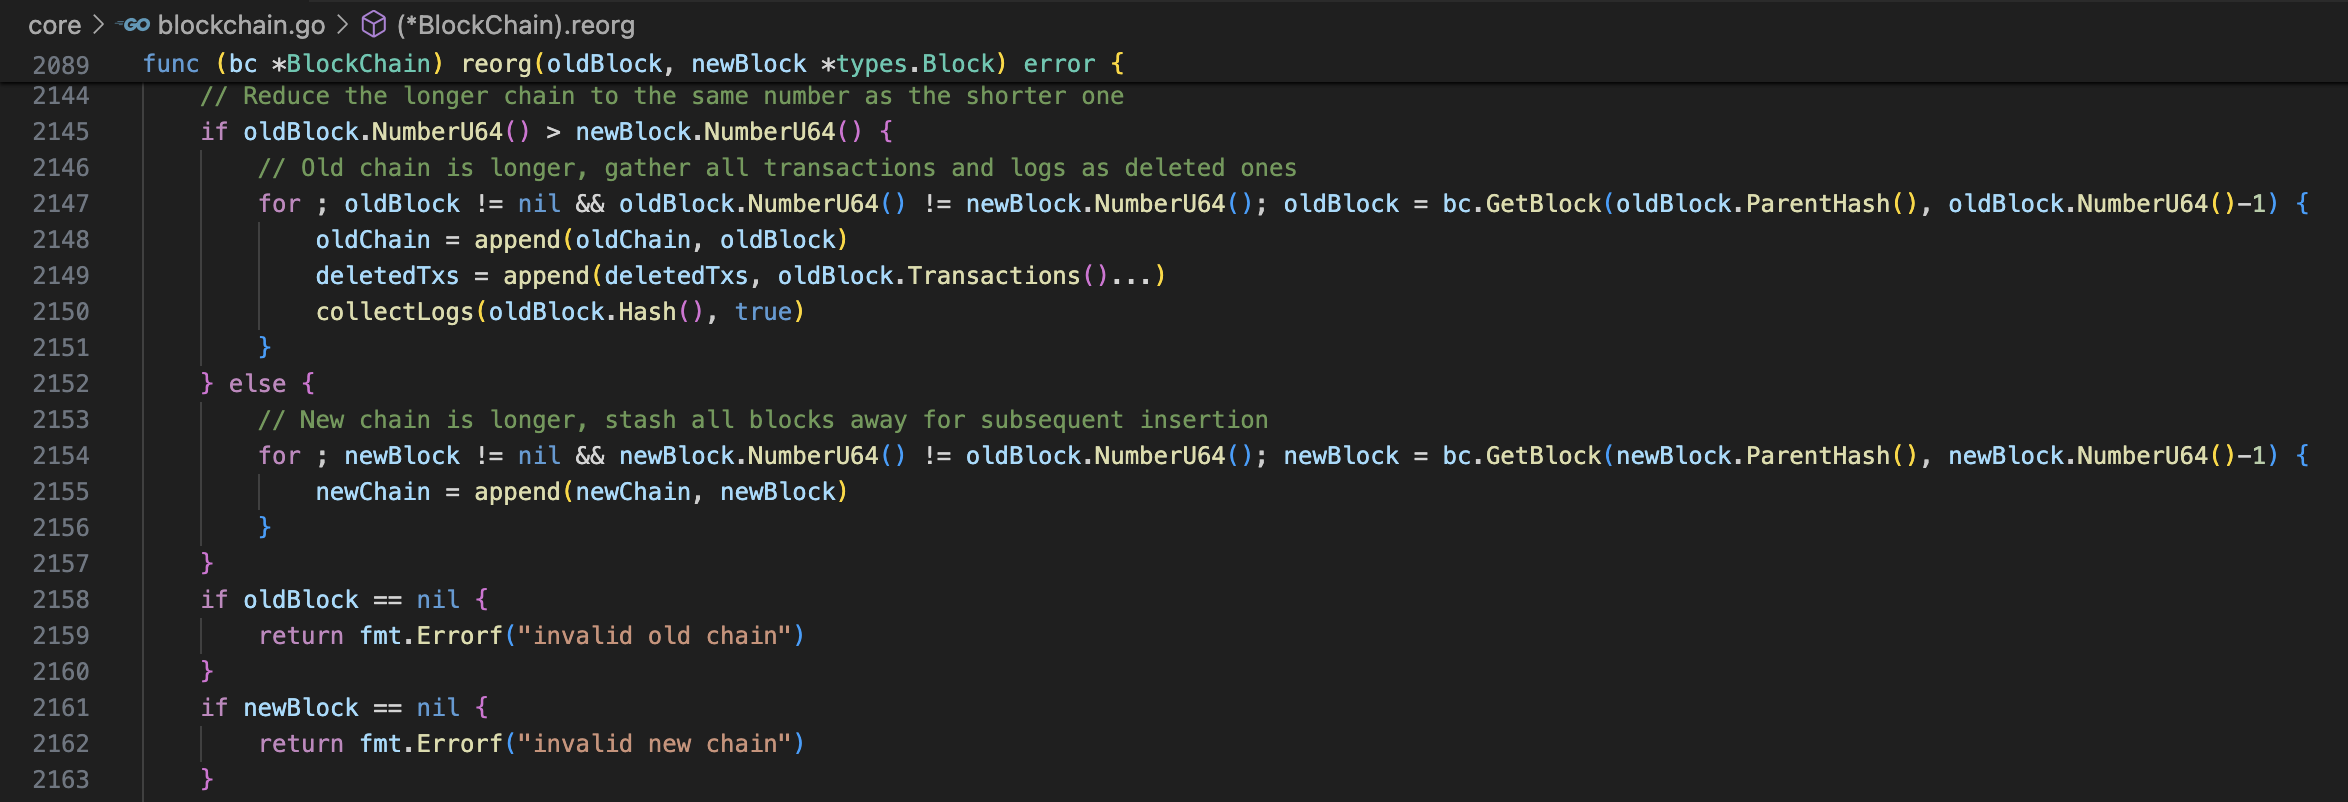
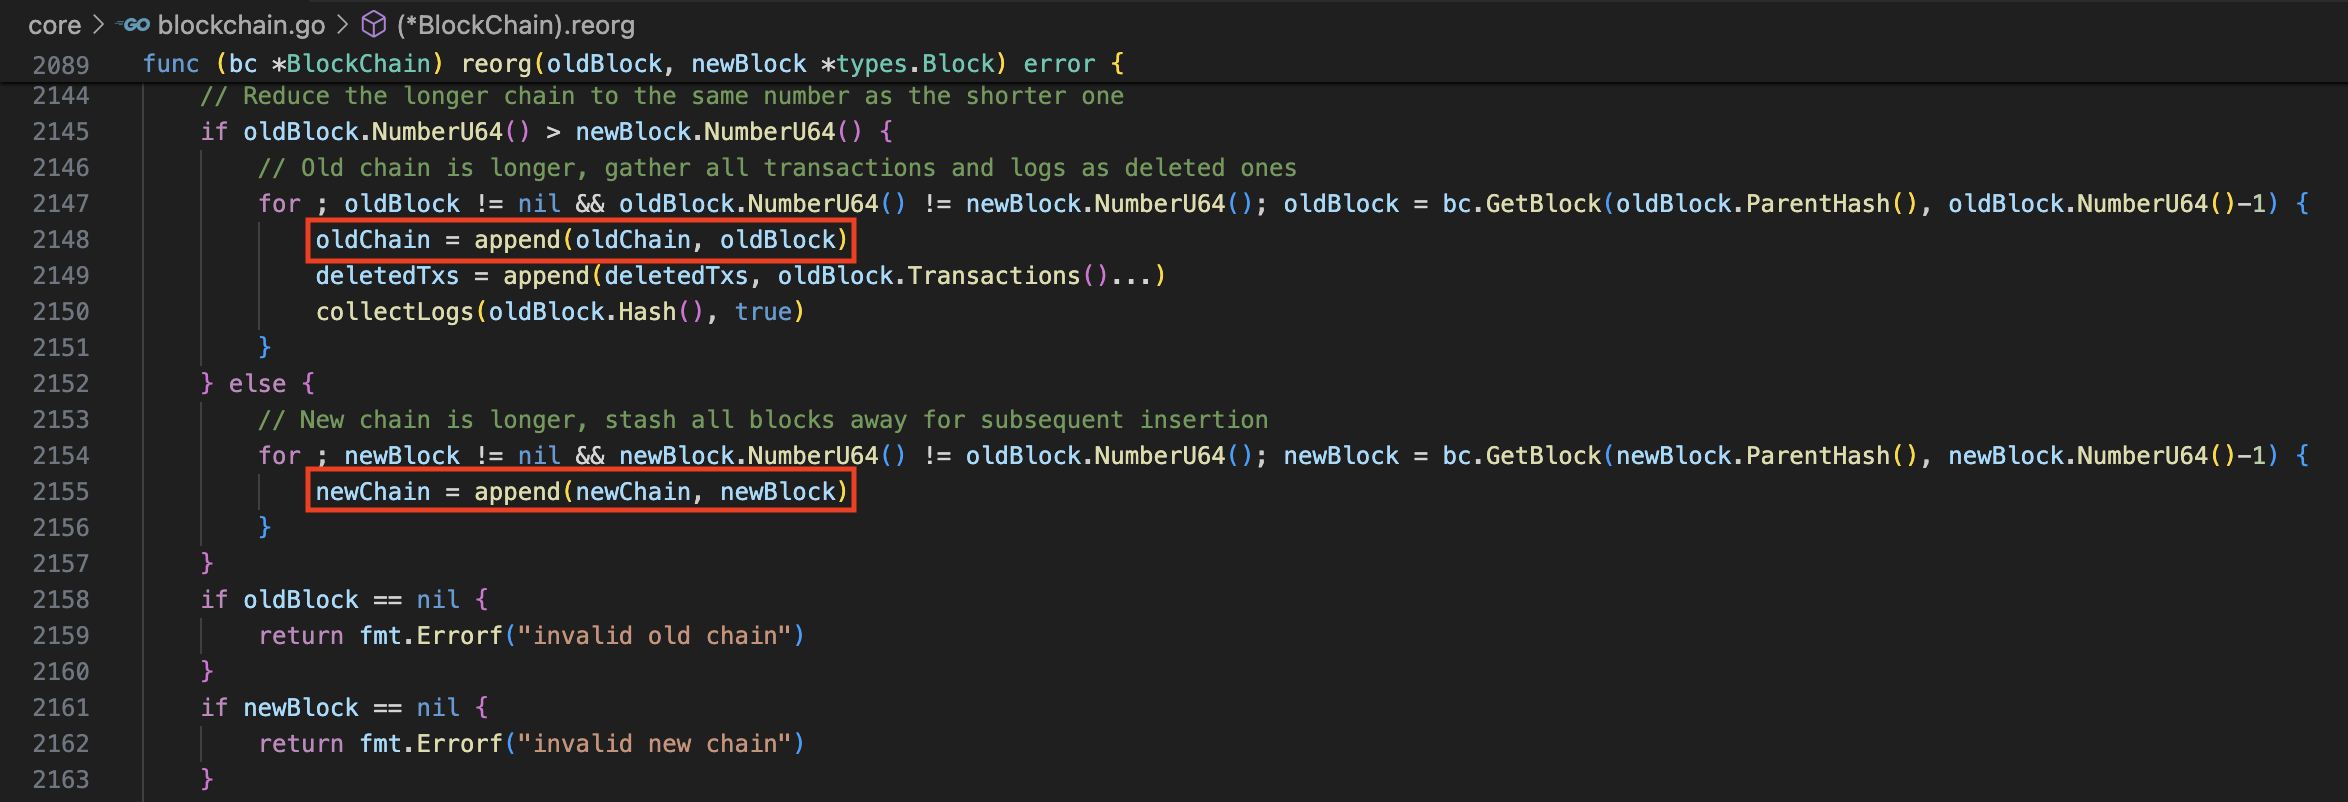
1. 在图上给reorg进行标注

diff --git a/README.md b/README.md
@@ -14,14 +14,18 @@ reading go-ethereum code, analyze and comment it.
 ### [Peer之间的Block同步流程](Peer之间的Block同步流程.md)
 ### [如何处理分叉(reorg)](如何处理分叉.md)
 
-### Node Object
+
+### genesisBlock里面有什么？
+
+### node.Node Object
 一个客户端，包含各种服务goroutine
 
 1. 管理account
 2. 管理P2P对象
 3. 提供HTTP，WebSocket，IPC，RPC的服务对象
+4. Lifecycle接口操作：Start和Stop；启动和停止所有的服务
 
-### Ethereum Object
+### eth.Ethereum Object
 处理以太坊区块链相关的服务对象
 
 1. 新来的区块处理

diff --git a/如何处理分叉.md b/如何处理分叉.md
@@ -1,7 +1,9 @@
 # 如何处理分叉(reorg)
 
 * reorg函数声明：
-    - 调用reorg函数之前，新旧两个链条上的`Block`都应该在本地存在且验证通过了
+    - 调用`reorg`函数之前，新旧两个链条上的`Block`都应该在本地存在且验证通过了
+    ![pic/reorg07.png](pic/reorg07.png)
+    - 下面是`reorg`函数的声明：
     ![pic/reorg01.png](pic/reorg01.png)
 
 * 比较新块和旧块的**高度**
